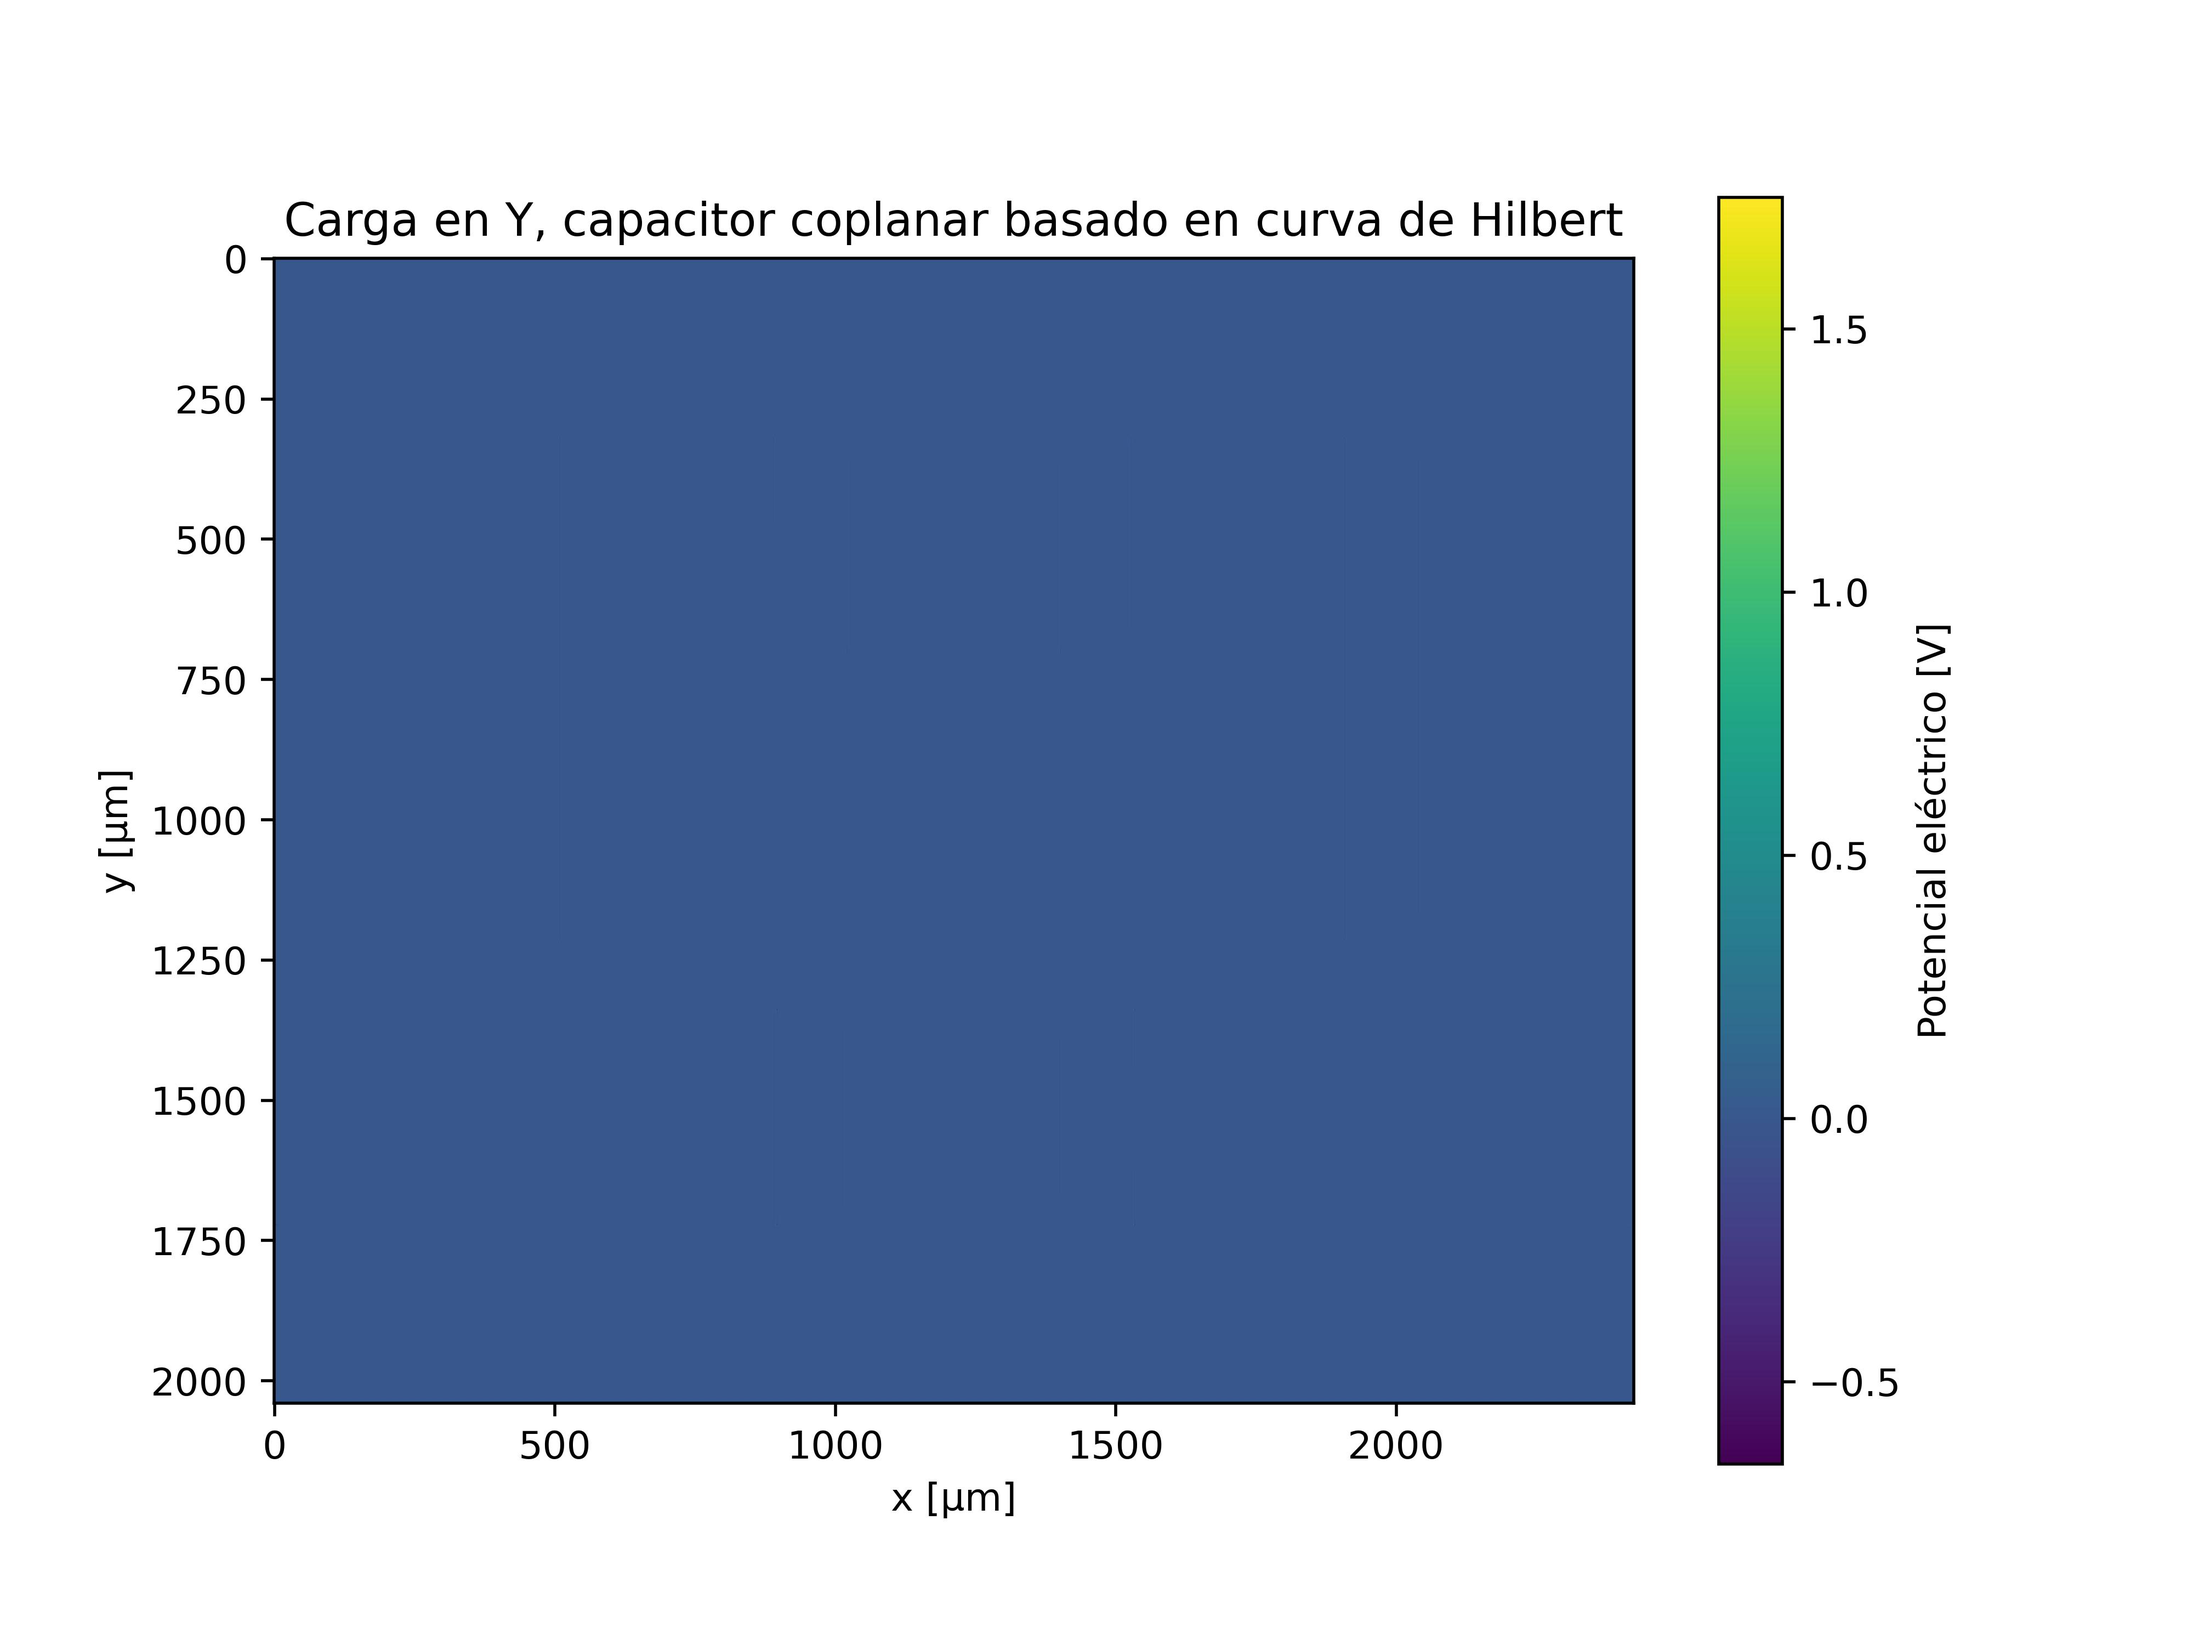
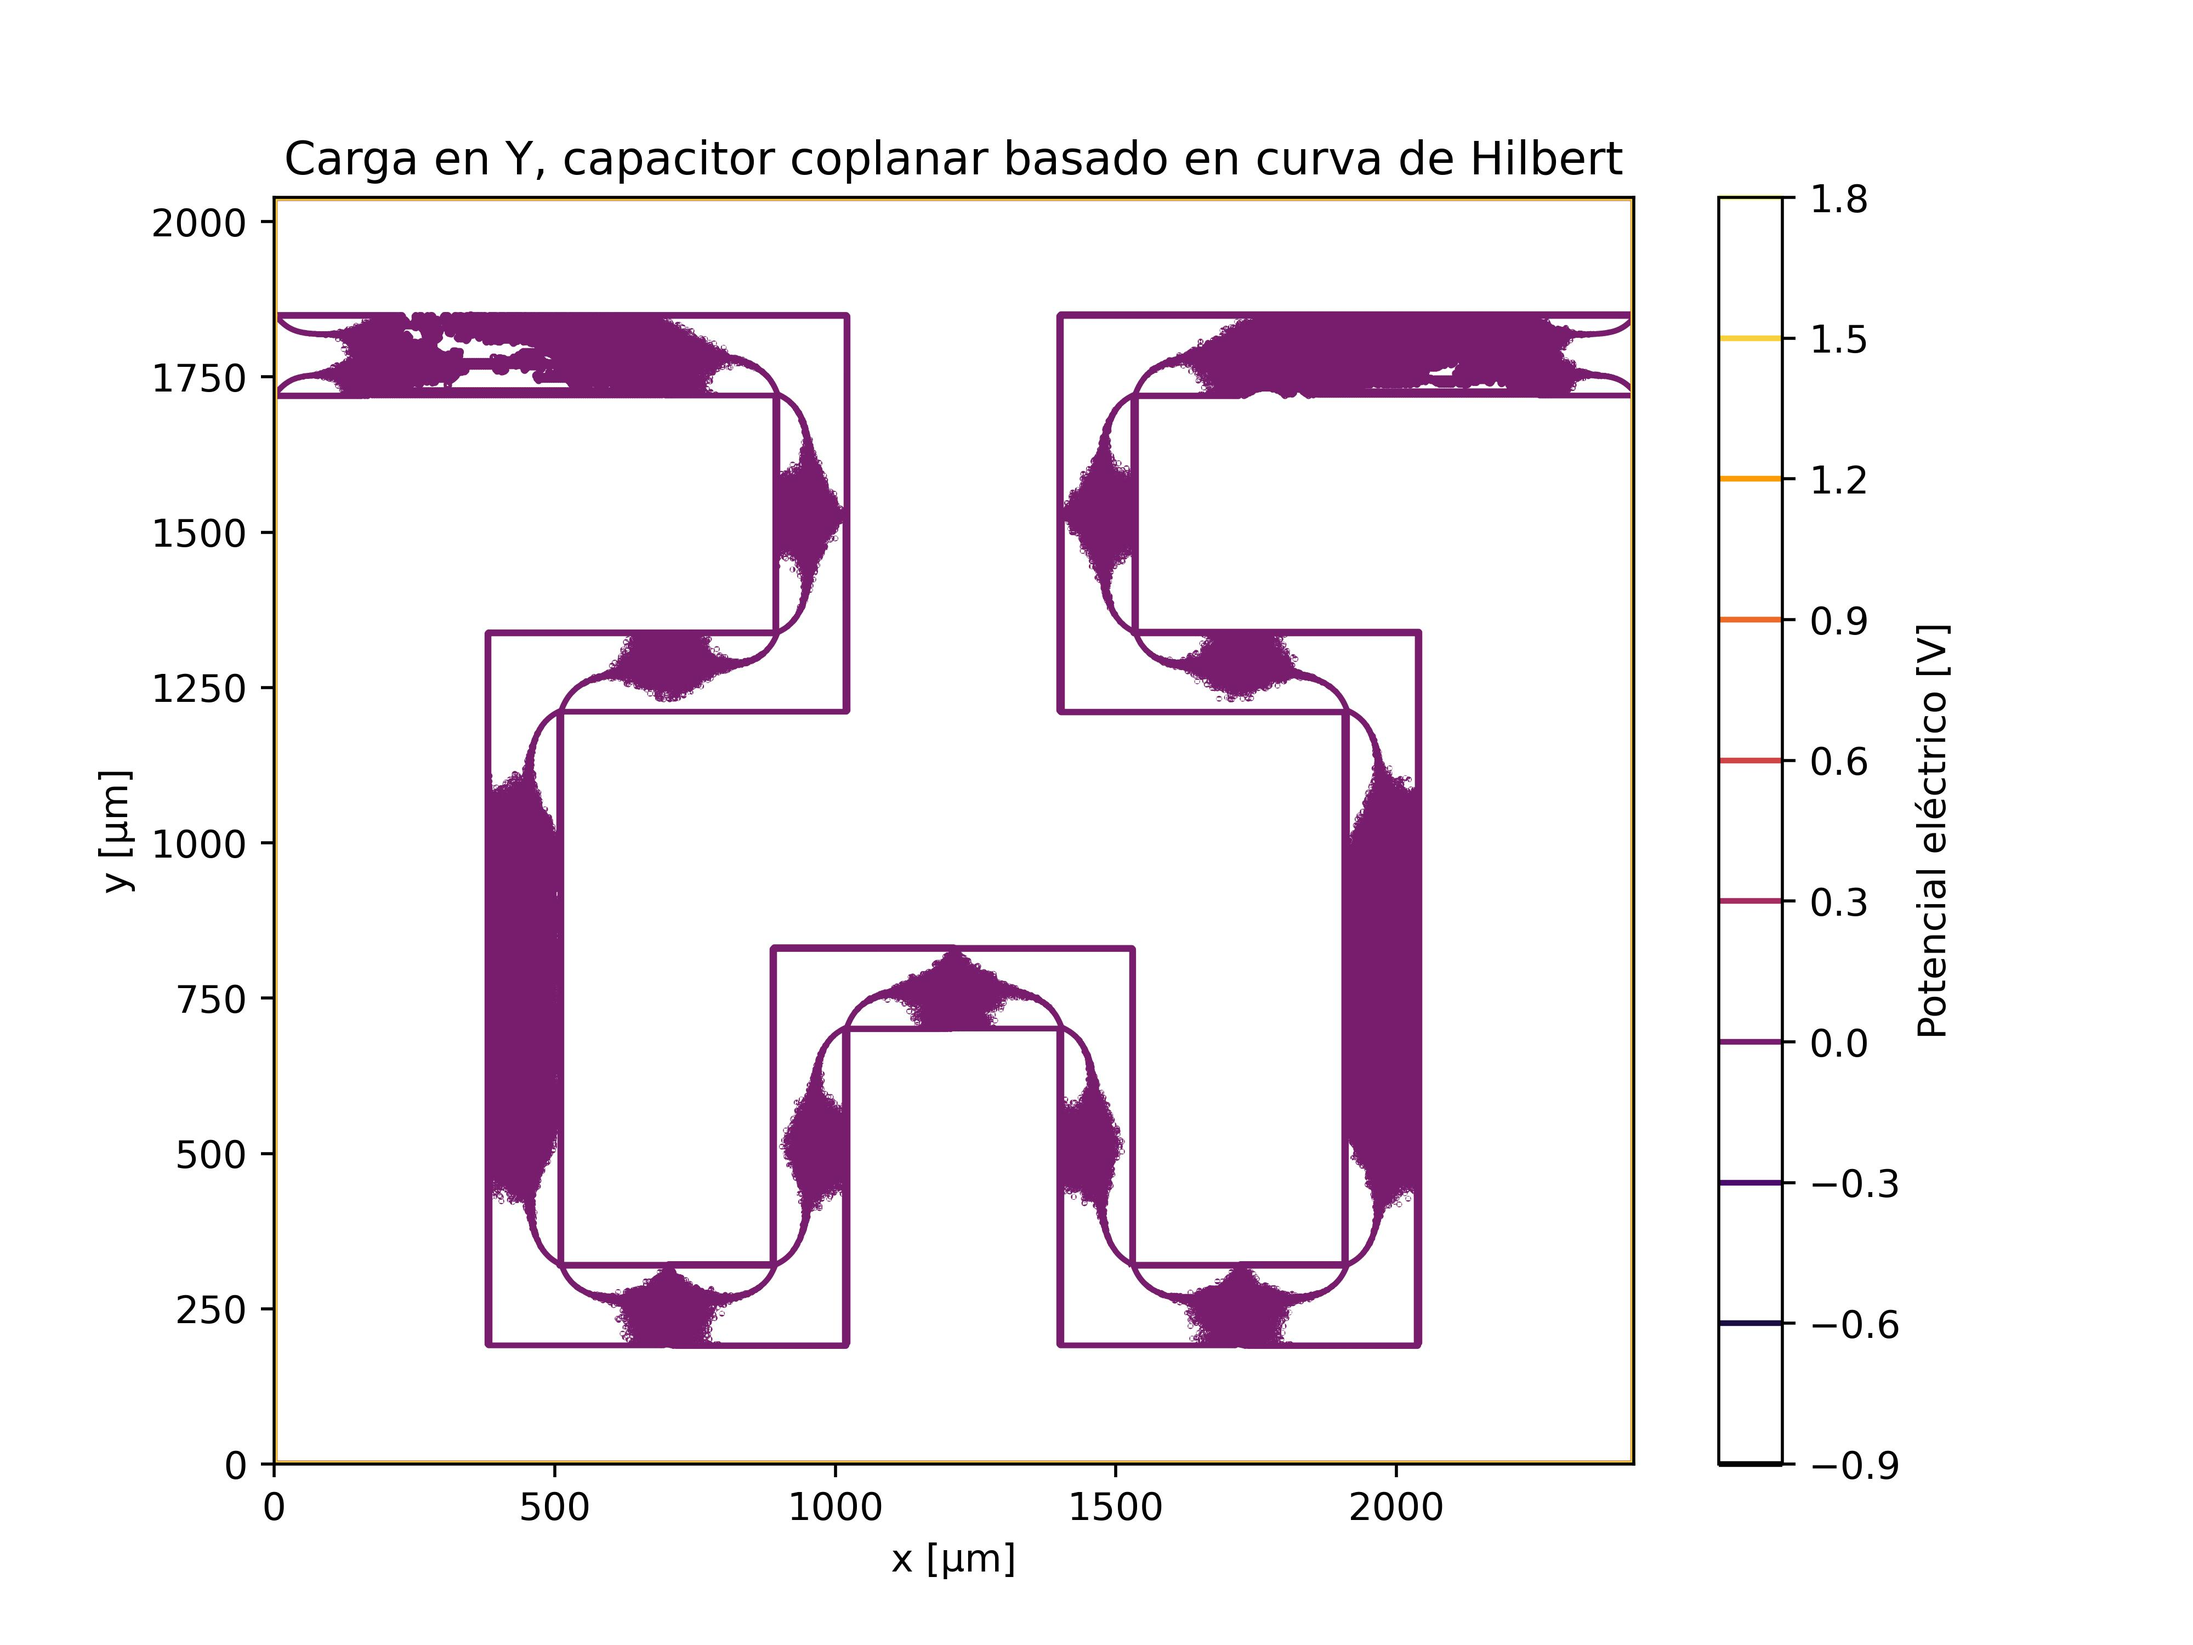
aaaaa

diff --git a/graficador.py b/graficador.py
@@ -99,8 +99,8 @@ rutacarga = 'potencialrust/cargax.txt'
 Q = archivo_texto_a_matriz(rutacarga)
 plt.figure(figsize=(8, 6))
 #plt.contourf(rho, 100, cmap='inferno')
-#plt.contour(Q, 8, cmap='inferno')
-plt.imshow(Q, cmap='viridis', interpolation='nearest')
+plt.contour(Q, 8, cmap='inferno')
+#plt.imshow(Q, cmap='viridis', interpolation='nearest')
 plt.colorbar(label='Potencial eléctrico [V]')
 #plt.quiver(-Ex,-Ey,scale=5)
 plt.title('Carga en X, capacitor coplanar basado en curva de Hilbert')
@@ -114,8 +114,8 @@ rutacarga = 'potencialrust/cargay.txt'
 Q = archivo_texto_a_matriz(rutacarga)
 plt.figure(figsize=(8, 6))
 #plt.contourf(rho, 100, cmap='inferno')
-#plt.contour(Q, 8, cmap='inferno')
-plt.imshow(Q, cmap='viridis', interpolation='nearest')
+plt.contour(Q, 8, cmap='inferno')
+#plt.imshow(Q, cmap='viridis', interpolation='nearest')
 plt.colorbar(label='Potencial eléctrico [V]')
 #plt.quiver(-Ex,-Ey,scale=5)
 plt.title('Carga en Y, capacitor coplanar basado en curva de Hilbert')
